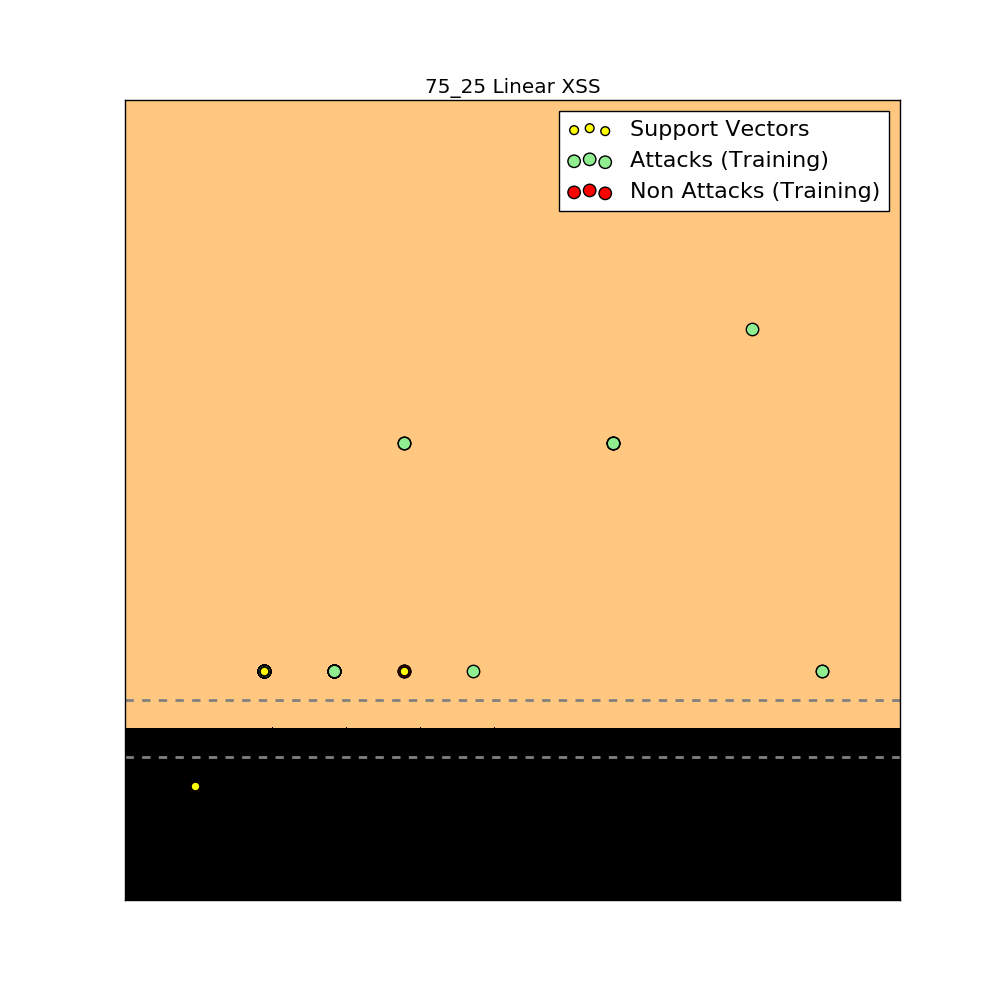
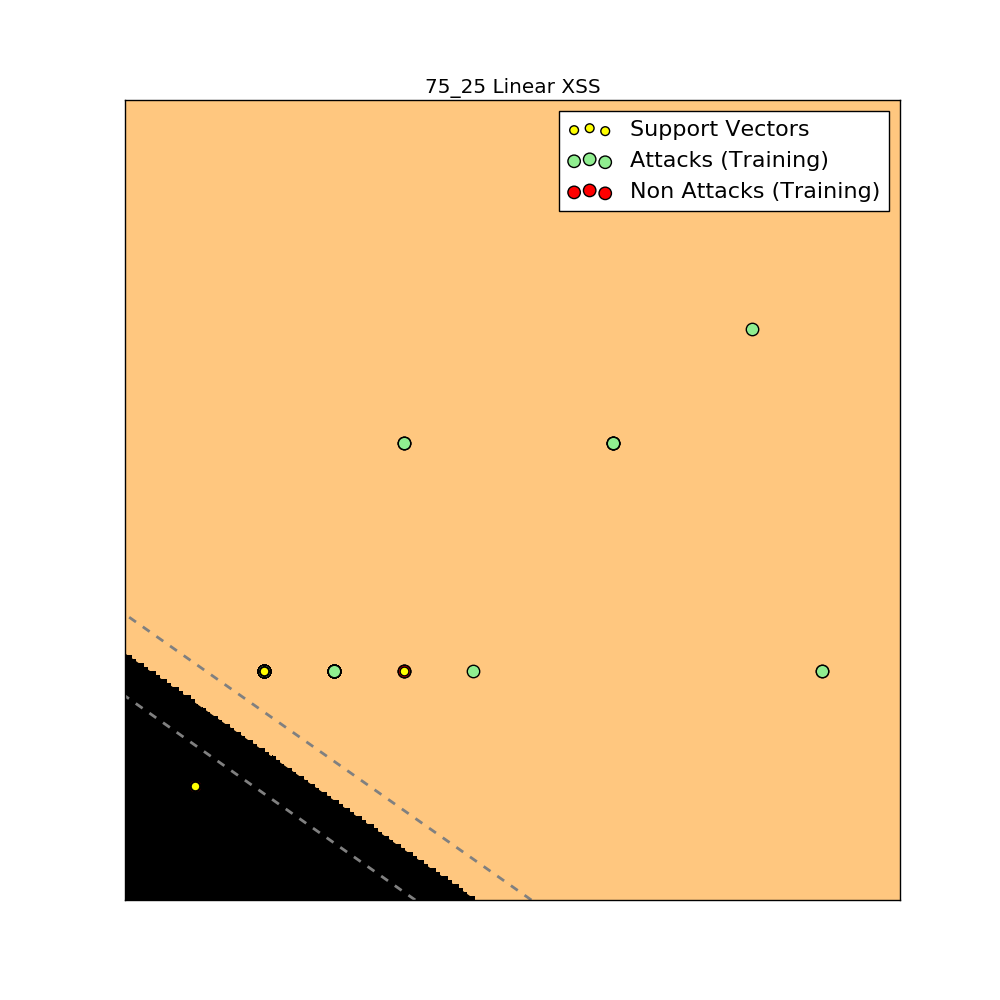
GridSearch optimization added but randomization makes no difference so not going to average results together as they are the same

Changed region(s): [[0.124, 0.651, 0.899, 0.899]]

diff --git a/SVM/SVM.py b/SVM/SVM.py
@@ -1,8 +1,10 @@
 import argparse
 import numpy as np
+import time
 import matplotlib.pyplot as plt
 import matplotlib.font_manager
 from sklearn import svm
+from sklearn.model_selection import GridSearchCV
 from CommonLib.SVMRequest import getTrainingSet
 from CommonLib.SVMRequest import getTestingSet
 
@@ -16,9 +18,6 @@ parser.add_argument("-r", "--rfiNumber",
                     help="The number of RFI attacks to include in training")
 parser.add_argument("-n", "--ntNumber",
                     help="THe number of nonthreat attacks to include in training")
-
-parser.add_argument("-op", "--optimize", action="store_true",
-                    help="Whether or not the svm should optimize gamma and C values using a GridSearch")
 
 parser.add_argument("-f", "--fileDirectory",
                     help="Directory containing the 4 threat files for training")
@@ -37,6 +36,36 @@ directory = args.fileDirectory
 sqlTestResults = []
 xssTestResults = []
 rfiTestResults = []
+
+optimizedParameters = dict()
+
+# Does a simple gridsearch to optimize gamma and C for the given kernel
+def optimizeSVM(vectors, targets, kernel):
+
+    accuracyResults = None
+    precisionResults = None
+    recallResults = None
+
+    parameters = {'gamma': [0.1, 0.01, 0.001, 0.0001], 'C': [0.1, 1, 10, 100]}
+
+    accuracyTest = GridSearchCV(svm.SVC(kernel=kernel), parameters, scoring="accuracy")
+    accuracyTest.fit(vectors, targets)
+    accuracyResults = accuracyTest.best_params_
+
+    precisionTest = GridSearchCV(svm.SVC(kernel=kernel), parameters, scoring="precision")
+    precisionTest.fit(vectors, targets)
+    precisionResults = precisionTest.best_params_
+
+    recallTest = GridSearchCV(svm.SVC(kernel=kernel), parameters, scoring="recall")
+    recallTest.fit(vectors, targets)
+    recallResults = recallTest.best_params_
+
+    # Average of (gamma, C)
+    averageGamma = (accuracyResults['gamma'] + precisionResults['gamma'] + recallResults['gamma']) / 3
+    averageC = (accuracyResults['C'] + precisionResults['C'] + recallResults['C']) / 3
+
+    optimizedParameters[kernel] = (averageGamma, averageC)
+
 
 for t in range(3):
 
@@ -61,14 +90,18 @@ for t in range(3):
     for kernel in ('linear', 'poly', 'rbf'):
 
         # Need to optimize the kernel
-        if args.optimize is True:
-            print("stub")
+        if kernel not in optimizedParameters:
+            optimizeSVM(vectors, targets, kernel)
 
         # Create the SVM and setup its kernel and gamma and C values.
         # C = penality parameter of the error term
         # Gamma is the kernel coefficient for poly and rbf kernels
         # random_state can be used with a seed to shuffle the data, could be useful for averaging if decided to do so
-        clf = svm.SVC(kernel=kernel, gamma=2, cache_size=50000, C=1.0)
+        clf = svm.SVC(kernel=kernel,
+                      gamma=optimizedParameters[kernel][0],
+                      C=optimizedParameters[kernel][1],
+                      cache_size=50000,
+                      random_state=int(time.time()))
 
         # Train the classifier using the training vectors
         clf.fit(vectors, targets)

diff --git a/SVM/TestSVM.py b/SVM/TestSVM.py
@@ -93,16 +93,14 @@ def incorrectTestHelper(variableNum):
 
 # Defined Tests Below
 # Fair Comparisons using the same ratios as the genetic algorithm testing (30/30/30/10)
-for i in range(3):
+# runTest("75_25", "Fair to Genetic/", 75, 75, 75, 25, "Training/Old/", "75_25")
+# runTest("150_50", "Fair to Genetic/", 150, 150, 150, 50, "Training/Old/", "150_50")
+# runTest("300_100", "Fair to Genetic/", 300, 300, 300, 100, "Training/Old/", "300_100")
+# runTest("420_140", "Fair to Genetic/", 420, 420, 420, 420, "Training/Old/", "420_140")
+# runTest("562_189", "Fair to Genetic/", 562, 562, 562, 189, "Training/Old/", "562_189")
+# runTest("750_250", "Fair to Genetic/", 750, 750, 750, 250, "Training/Old/", "750_250")
+runTest("1000_334", "Fair to Genetic/", 1000, 1000, 1000, 334, "Training/Old/", "1000_334")
 
-    runTest("75_25", "Fair to Genetic/", 75, 75, 75, 25, "Training/Old/", "75_25")
-    # runTest("150_50", "Fair to Genetic/", 150, 150, 150, 50, "Training/Old/", "150_50")
-    # runTest("300_100", "Fair to Genetic/", 300, 300, 300, 100, "Training/Old/", "300_100")
-    # runTest("420_140", "Fair to Genetic/", 420, 420, 420, 420, "Training/Old/", "420_140")
-    # runTest("562_189", "Fair to Genetic/", 562, 562, 562, 189, "Training/Old/", "562_189")
-    # runTest("750_250", "Fair to Genetic/", 750, 750, 750, 250, "Training/Old/", "750_250")
-    # runTest("1000_334", "Fair to Genetic/", 1000, 1000, 1000, 334, "Training/Old", "1000_334")
-#
 # # Increasing amounts of non-threat traiing (in theory should reduce false positives)
 # runTest("350", "Increasing Non-Threats/", 1000, 1000, 1000, 350, "Training/New/", "350")
 # runTest("450", "Increasing Non-Threats/", 1000, 1000, 1000, 450, "Training/New/", "450")

diff --git a/SVM/example.py b/SVM/example.py
@@ -8,39 +8,28 @@ import numpy as np
 import matplotlib.font_manager
 import matplotlib.pyplot as plt
 from sklearn import svm
+from sklearn.model_selection import GridSearchCV
+from sklearn import datasets
 
 
 # Our dataset and targets
 # Create Numpy Array
 
-test = [(.4, -.7),
-          (-1.5, -1),
-          (-1.4, -.9),
-          (-1.3, -1.2),
-          (-1.1, -.2),
-          (-1.2, -.4),
-          (-.5, 1.2),
-          (-1.5, 2.1),
-          (1, 1),
-          # --
-          (1.3, .8),
-          (1.2, .5),
-          (.2, -2),
-          (.5, -2.4),
-          (.2, -2.3),
-          (0, -2.7),
-          (1.3, 2.1)]
-X = np.c_[test]
-Y = [0] * 8 + [1] * 8 # the targets, attack or non-attack
+iris = datasets.load_iris()
 
 # figure number
 fignum = 1
 
+tuned_parameters = {'gamma': [0.00000000000000000000000000000001, 0.001, 0.0001, 0.01], 'C': [1000, 100, 1000, 1]}
+scores = ['precision', 'recall', 'accuracy']
+
 # fit the model
 for kernel in ('linear', 'poly', 'rbf'):
 
-    clf = svm.SVC(kernel=kernel, gamma=2)
-    clf.fit(X, Y)
+    testSVM = GridSearchCV(svm.SVC(C=1, kernel="linear"), tuned_parameters)
+    testSVM.fit(iris.data, iris.targets)
+
+    print(testSVM.best_params_)
 
     # plot the line, the points, and the nearest vectors to the plane
     plt.figure(fignum, figsize=(10, 10))
